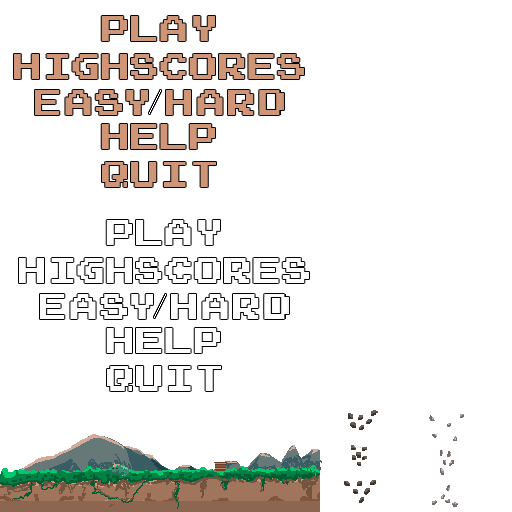
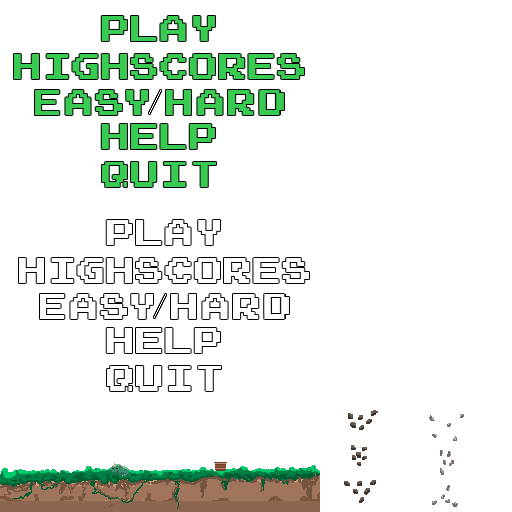
green highlights

Changed region(s): [[0.0, 0.0312, 0.5938, 0.375], [0.0312, 0.8438, 0.375, 0.9375], [0.4375, 0.875, 0.625, 0.9375]]

diff --git a/core/src/com/jedijump/states/MenuState.java b/core/src/com/jedijump/states/MenuState.java
@@ -41,7 +41,7 @@ public class MenuState extends State{
         backgroundRegion = new TextureRegion(background, 0, 0, 280, 450);
 
         item = manager.getItems();
-        mainmenutext = new TextureRegion(new Texture(Gdx.files.internal("mainmenu.png")));
+        mainmenutext = new TextureRegion(new Texture(Gdx.files.internal("bgpixel.png")));
 
 
         mainMenu = new TextureRegion(mainmenutext, 0, 217, 336, 179);
